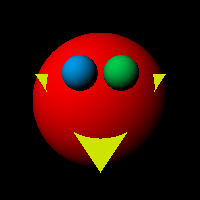
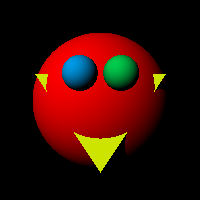
課題4

Changed region(s): [[0.54, 0.66, 0.63, 0.81], [0.78, 0.39, 0.84, 0.45]]

diff --git a/ray_tracing.py b/ray_tracing.py
@@ -205,7 +205,7 @@ def find_intersect(ray, scene):
 
 
 
-def find_color(ray, lights, obj, depth):
+def find_color(ray, lights, obj, depth, scene):
     if obj is None:
         return np.zeros(3) # Black
     ''' 
@@ -247,7 +247,12 @@ def find_color(ray, lights, obj, depth):
     
         for light in lights:
             light_direction = light.direction(position) # 光源方向
-            color += obj.brdf.reflectance(light_direction, viewing, normal) * light.attenuation(position) * light.color
+
+            visible_position = ray.p0 + (depth - 0.1) * ray.direction # 衝突点の座標(カメラ側に少しずらす)
+            light_ray = Ray(visible_position, light_direction) # 光源方向へのレイを定義
+            _collision_depth, collision_obj = find_intersect(light_ray, scene) # 光源・衝突点間の衝突判定
+            if collision_obj is None : # Visibility = 1 の場合
+                color += obj.brdf.reflectance(light_direction, viewing, normal) * light.attenuation(position) * light.color
 
         return color
 
@@ -303,7 +308,7 @@ def ray_trace(scene):
             depth, obj = find_intersect(ray, scene)
             ''' 課題４では、find_color に scene を渡すように変更しないと、影の実装はできない。
             '''
-            color = find_color(ray, scene.lights, obj, depth)
+            color = find_color(ray, scene.lights, obj, depth, scene)
             image[v, u] = color
             
     # 結果を保存
